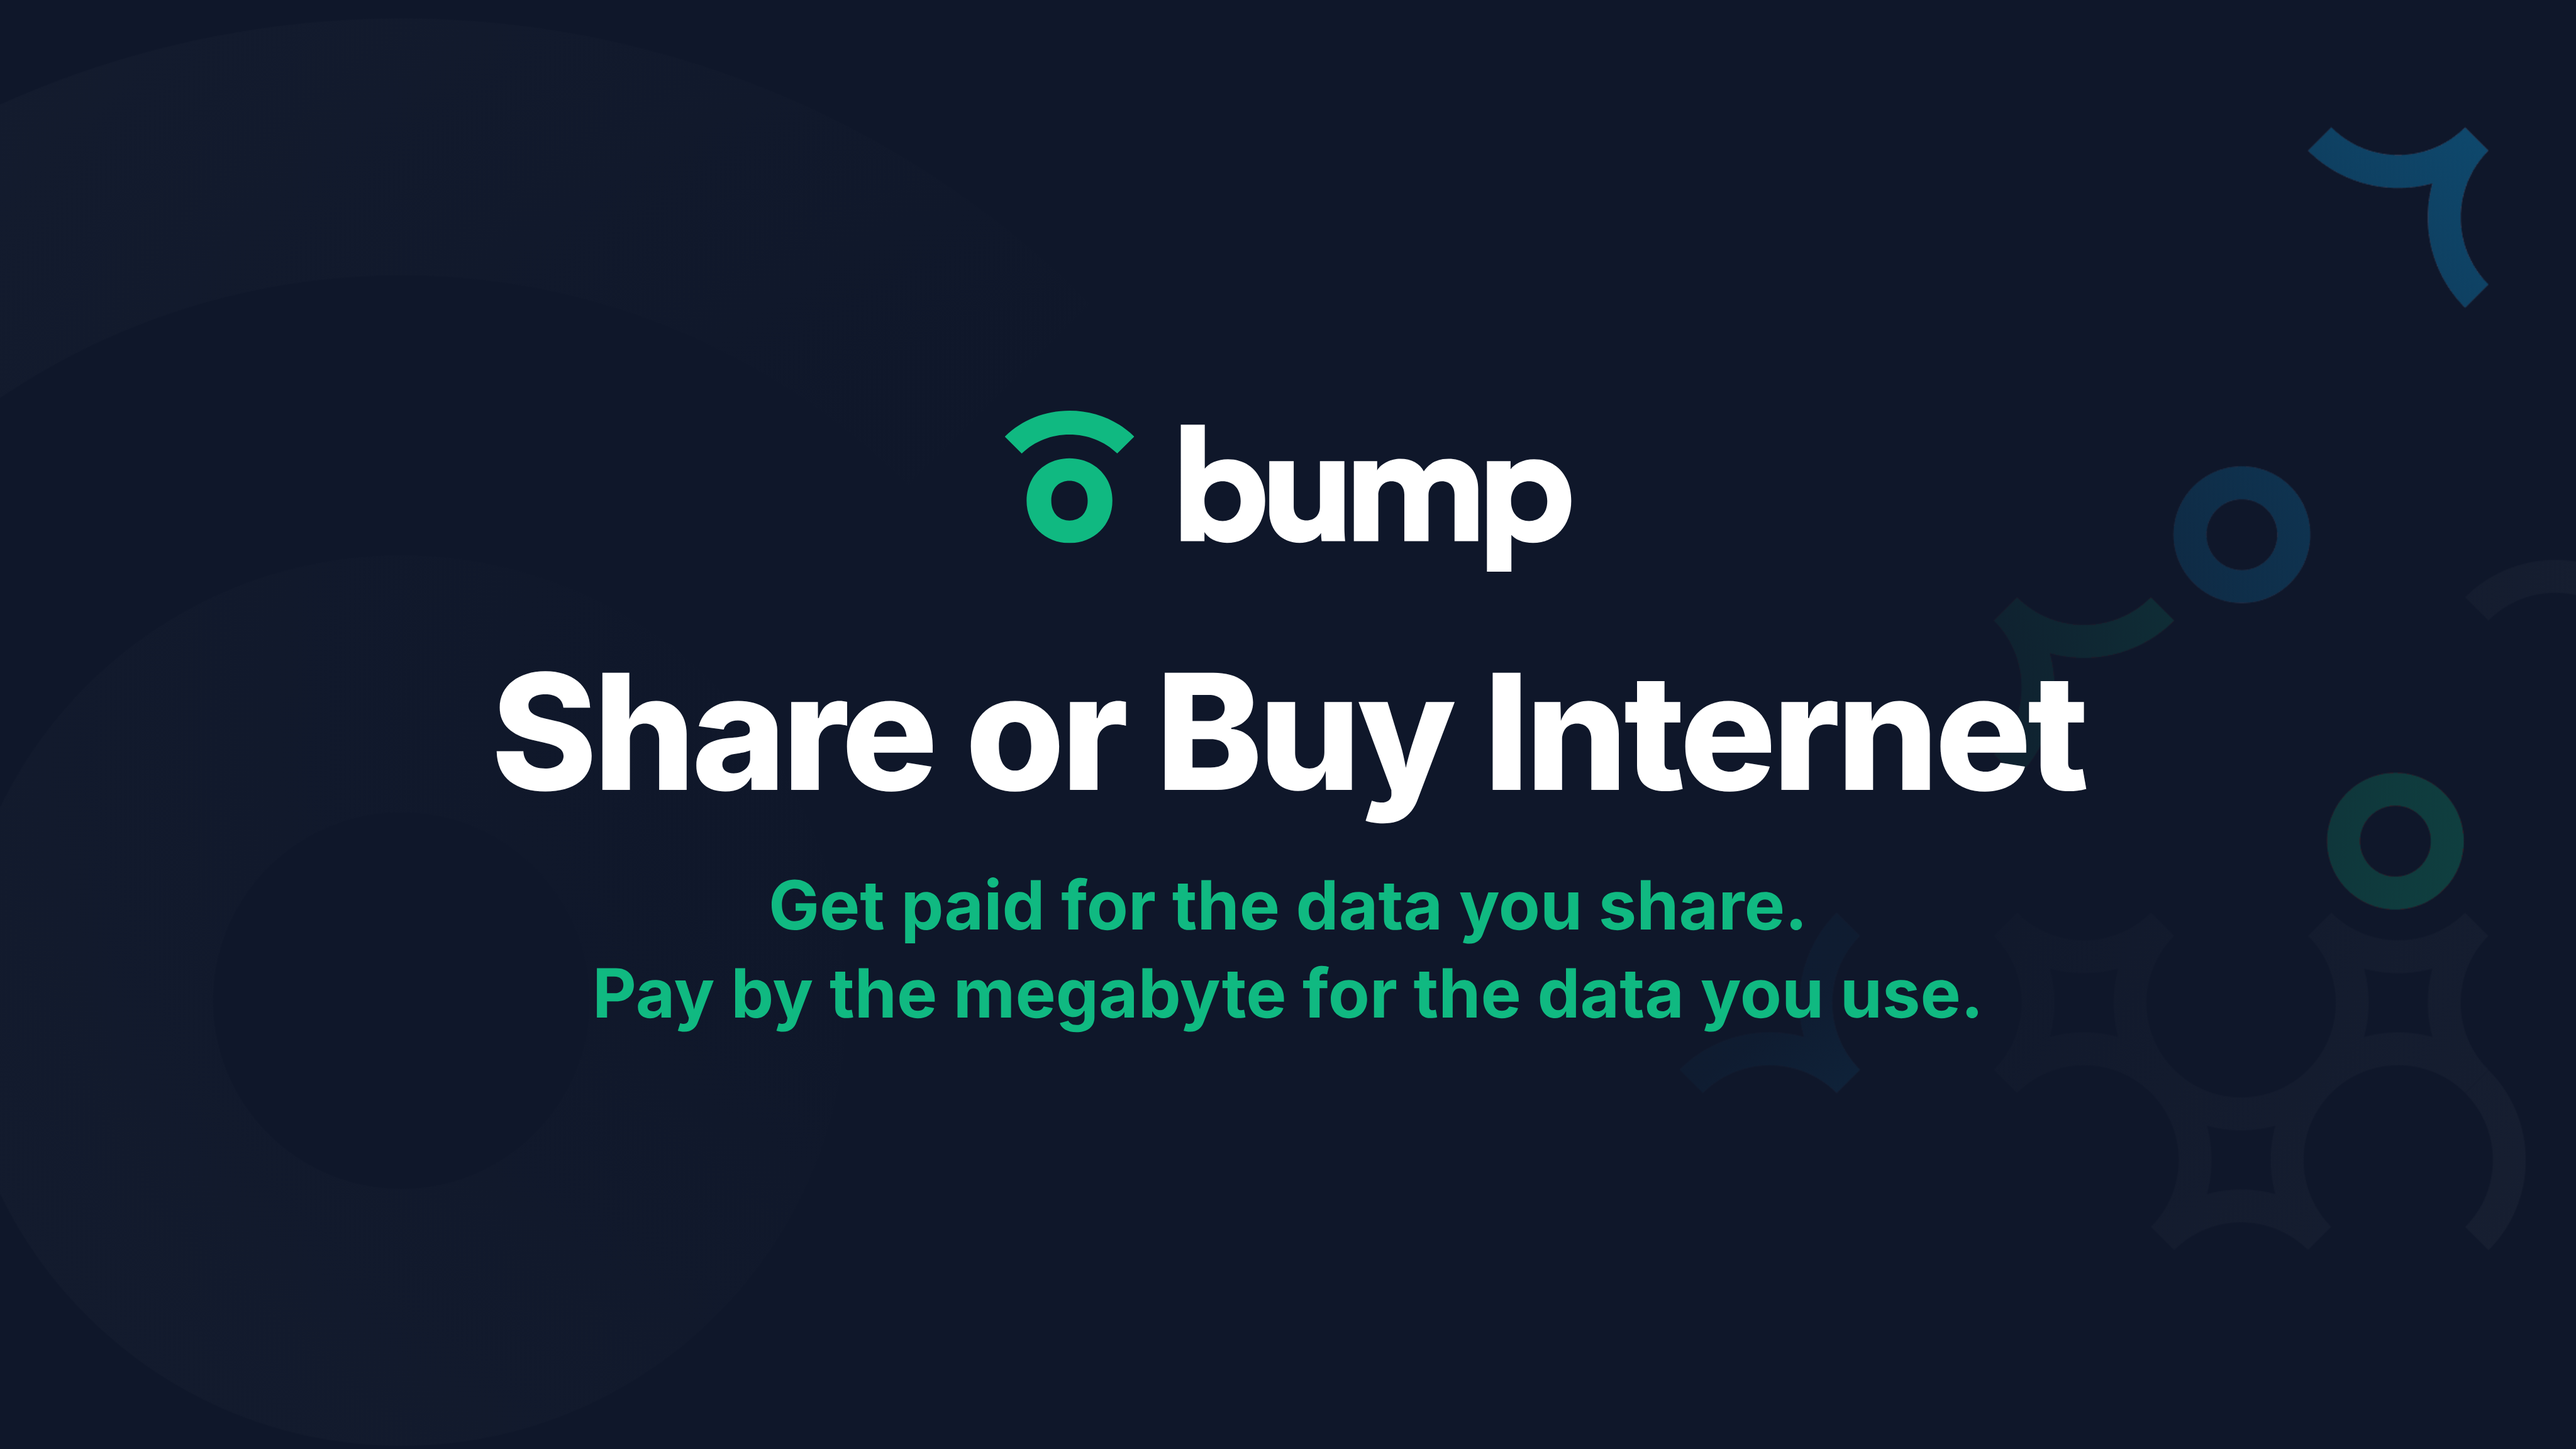
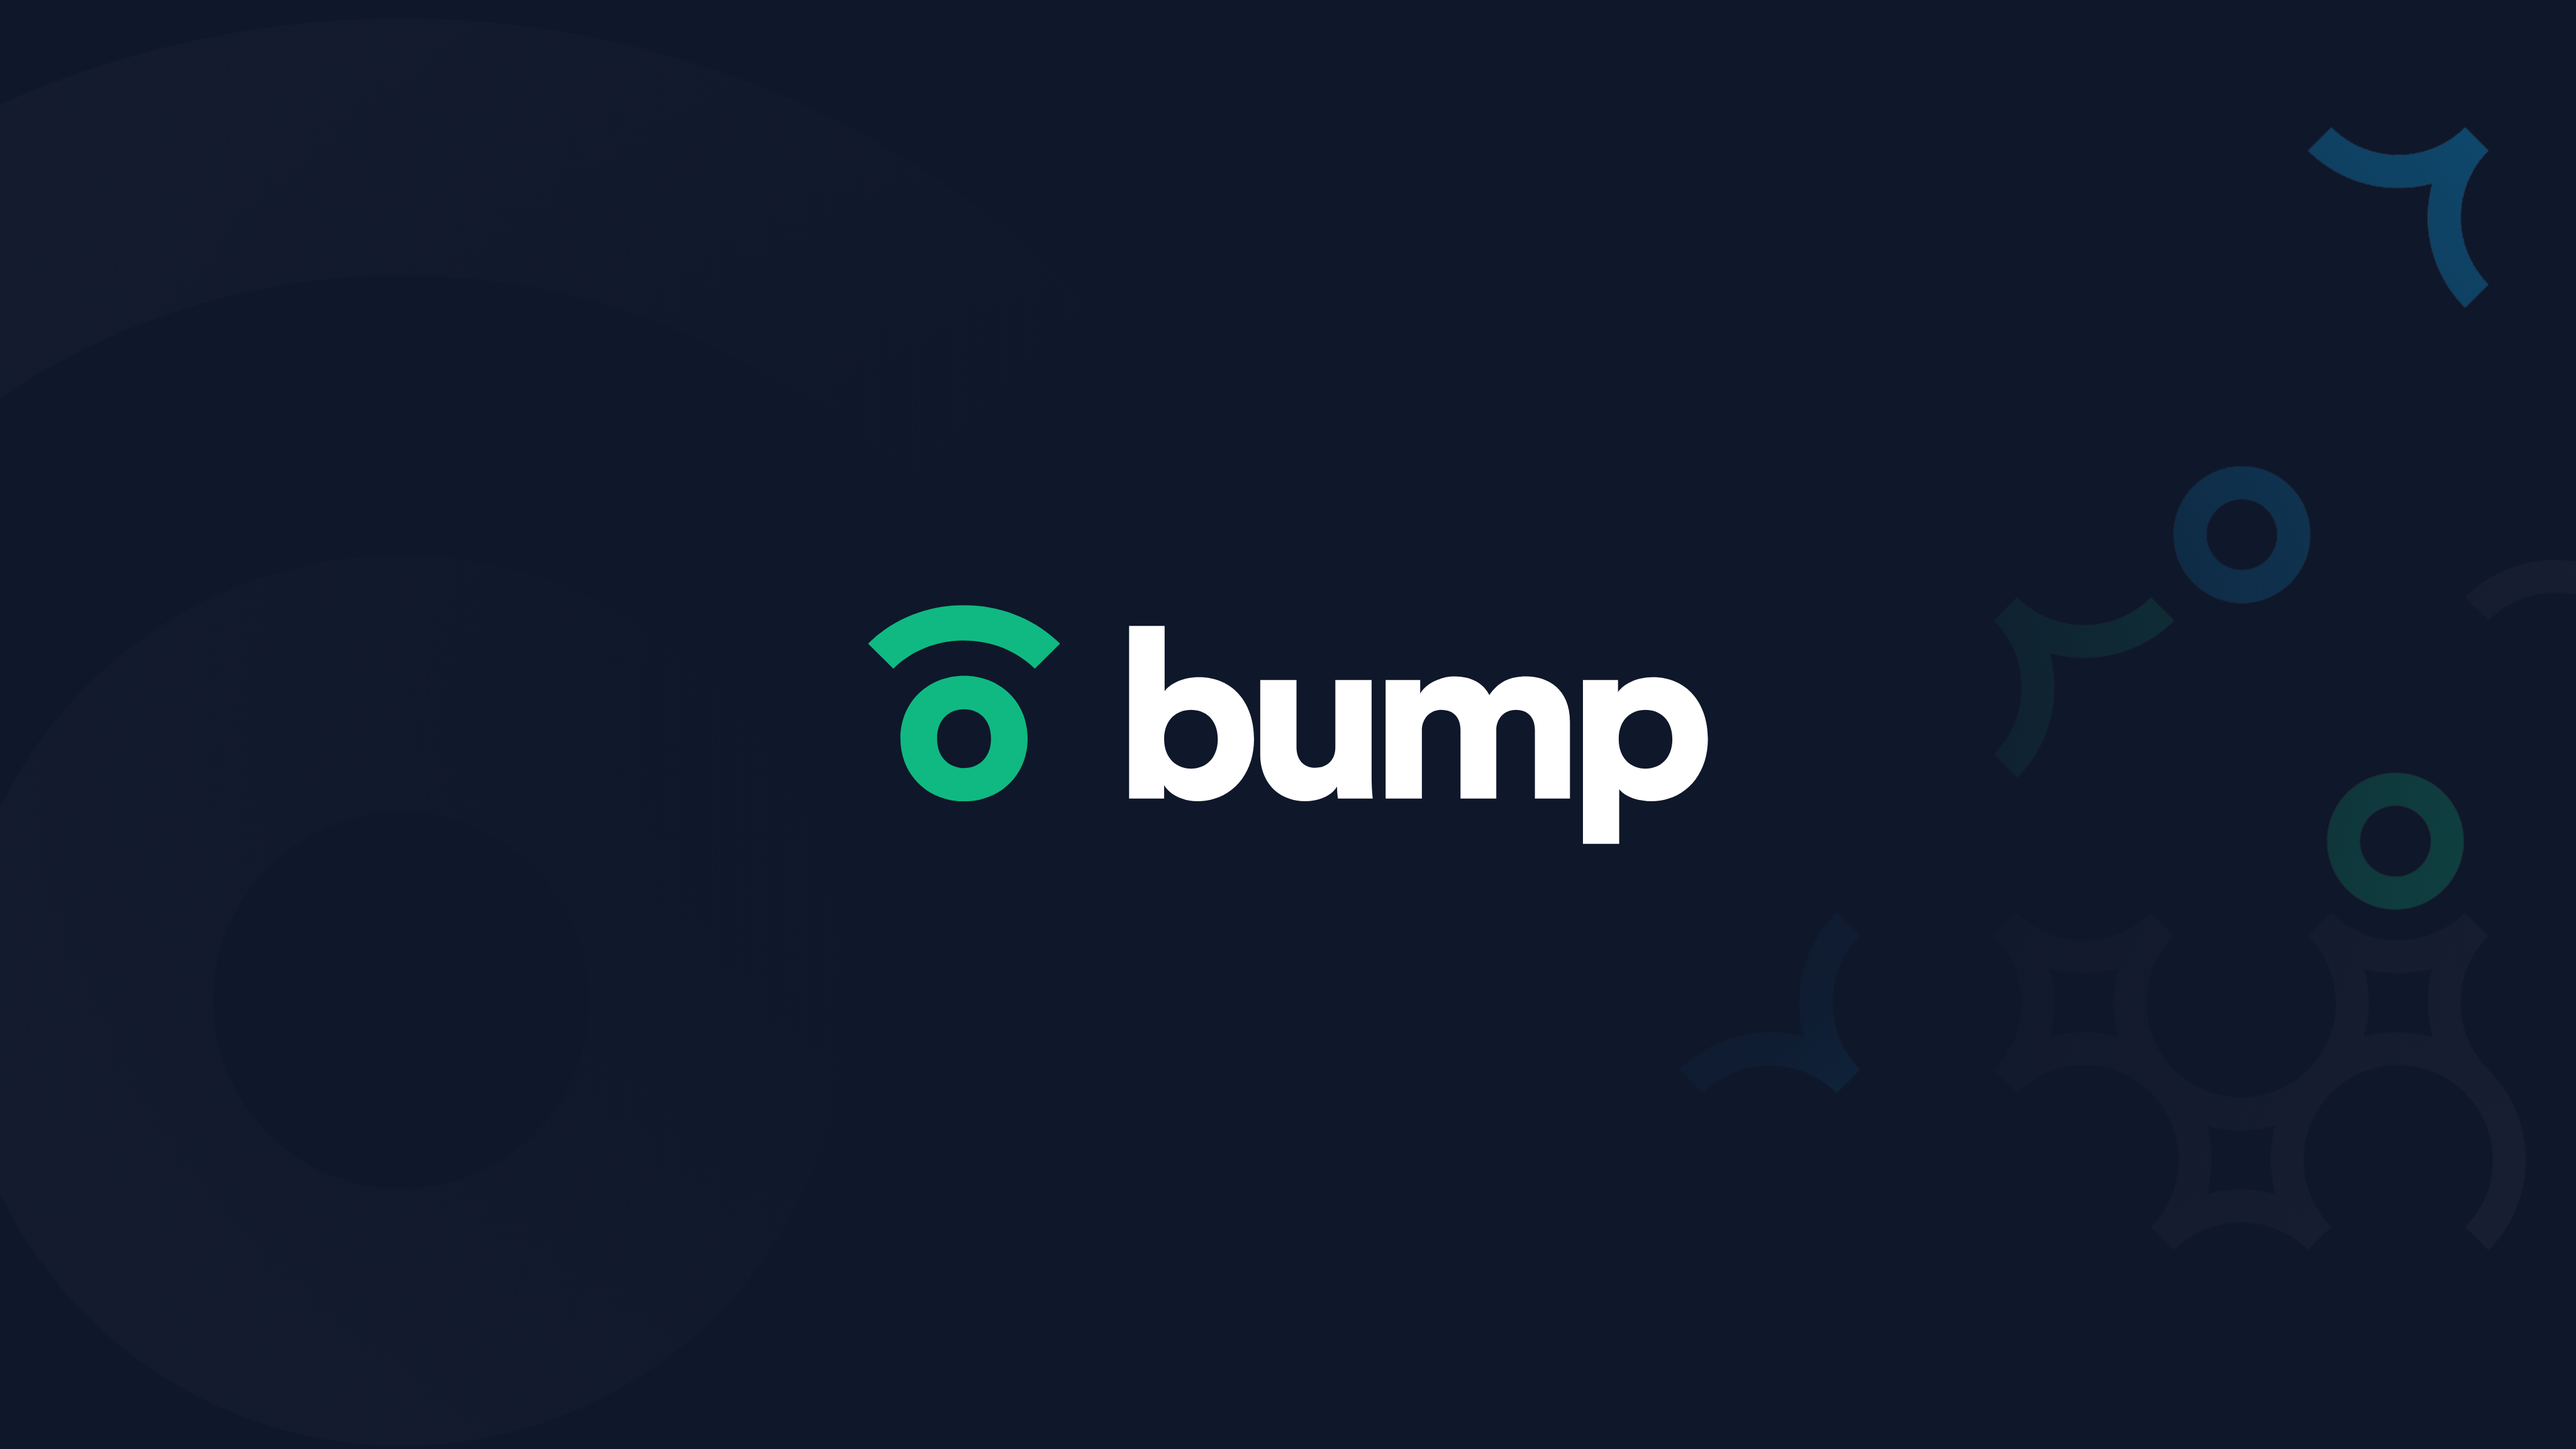
Play developer header: lockup only, Play crops the image to a wide strip

Changed region(s): [[0.1875, 0.4062, 0.8125, 0.7188], [0.375, 0.2812, 0.625, 0.4062]]

diff --git a/brand/play-dev-header.html b/brand/play-dev-header.html
@@ -1,5 +1,5 @@
 <!doctype html><html><head><meta charset="utf-8">
-<!-- Google Play developer page header, 4096x2304 (16:9). Render:
+<!-- Google Play developer page header, 4096x2304 (16:9). Play shows only the middle band, about 4:1 on desktop, so it carries just the logo lockup. Render:
      google-chrome --headless=new --hide-scrollbars --force-device-scale-factor=4 --window-size=1024,576 --screenshot=play-dev-header.png play-dev-header.html -->
 <style>*{margin:0;padding:0}html,body{overflow:hidden;width:1024px;height:576px;background:#0F172A;font-family:Inter,system-ui,sans-serif}
 .bg{position:absolute;inset:0;width:100%;height:100%;object-fit:cover;opacity:.9}
@@ -9,7 +9,7 @@ h1{margin-top:30px;color:#fff;font-size:64px;font-weight:800;letter-spacing:-.02
 p{margin-top:18px;color:#10B981;font-size:27px;font-weight:700;line-height:1.3;max-width:820px}
 </style></head><body>
 <img class="bg" src="../bg@2x.png"><div class="shade"></div>
-<div class="copy"><svg width="230" height="64" viewBox="0 0 86 24" fill="none" xmlns="http://www.w3.org/2000/svg">
+<div class="copy"><svg width="340" height="95" viewBox="0 0 86 24" fill="none" xmlns="http://www.w3.org/2000/svg">
 <path d="M30.5465 19.4444V18.1017C31.098 19.0128 32.3208 19.7081 33.9033 19.7081C37.236 19.7081 39.5857 17.0947 39.5857 13.4502C39.5857 9.87772 37.4997 7.2403 34.0471 7.2403C32.4167 7.2403 31.098 7.91164 30.5945 8.65492V2.08533H27.022V19.4444H30.5465ZM35.9413 13.4742C35.9413 15.4643 34.6705 16.4473 33.2559 16.4473C31.8413 16.4473 30.5465 15.4403 30.5465 13.4742C30.5465 11.4602 31.8413 10.5251 33.2559 10.5251C34.6705 10.5251 35.9413 11.4602 35.9413 13.4742Z" fill="white"/>
 <path d="M48.0255 19.4444H51.5261C51.5021 19.2526 51.4062 18.3894 51.4062 17.3105V7.52802H47.7617V14.3134C47.7617 15.5122 46.9945 16.3514 45.7717 16.3514C44.4769 16.3514 43.8535 15.4403 43.8535 14.2894V7.52802H40.2091V15.0567C40.2091 17.5982 41.8395 19.7081 44.7407 19.7081C45.9395 19.7081 47.3062 19.2766 47.9296 18.2456C47.9296 18.5573 47.9775 19.2286 48.0255 19.4444Z" fill="white"/>
 <path d="M56.4609 19.4444V12.5871C56.4609 11.5081 57.1563 10.5251 58.427 10.5251C59.7457 10.5251 60.3451 11.4122 60.3451 12.5391V19.4444H63.9416V12.5631C63.9416 11.5081 64.637 10.5251 65.9317 10.5251C67.2264 10.5251 67.8258 11.4122 67.8258 12.5391V19.4444H71.3504V11.7239C71.3504 8.48708 69.1925 7.16837 66.9387 7.16837C65.3323 7.16837 64.1814 7.69585 63.2463 9.03854C62.6469 7.86369 61.4241 7.16837 59.7218 7.16837C58.427 7.16837 56.8925 7.83971 56.2931 8.89468V7.52802H52.8165V19.4444H56.4609Z" fill="white"/>
@@ -17,7 +17,7 @@ p{margin-top:18px;color:#10B981;font-size:27px;font-weight:700;line-height:1.3;m
 <g clip-path="url(#c)"><path d="M16.8235 13.4086C16.8235 17.1006 14.0373 19.7369 10.4273 19.7369C6.81729 19.7369 4.03113 17.0997 4.03113 13.4086C4.03113 9.71746 6.84195 7.10388 10.4273 7.10388C14.0127 7.10388 16.8235 9.71662 16.8235 13.4086ZM13.1404 13.4086C13.1404 11.3948 11.8319 10.4602 10.4265 10.4602C9.02106 10.4602 7.71257 11.3948 7.71257 13.4086C7.71257 15.4224 9.04486 16.3814 10.4265 16.3814C11.8081 16.3814 13.1404 15.4224 13.1404 13.4086Z" fill="#10B981"/>
 <path d="M0.779907 3.8762L3.31866 6.388C3.33651 6.37033 3.35352 6.35098 3.37222 6.33332C5.224 4.5399 7.72959 3.5515 10.4265 3.5515C13.1234 3.5515 15.6443 4.54074 17.4935 6.33668C17.5088 6.35182 17.5232 6.36781 17.5394 6.38295L20.0781 3.87116C20.0543 3.84844 20.0322 3.82489 20.0084 3.80134C17.4841 1.35011 14.0807 0 10.4265 0C6.77224 0 3.38838 1.34759 0.860678 3.79545C0.833471 3.82237 0.807114 3.84928 0.779907 3.8762Z" fill="#10B981"/></g>
 <defs><clipPath id="c"><rect width="19.2982" height="19.7368" fill="white" transform="translate(0.779907)"/></clipPath></defs>
-</svg><h1 id="h"></h1><p id="p"></p></div>
+</svg></div>
 <script>
 var t = {
   en: ["Share or Buy Internet", "Get paid for the data you share. Pay by the megabyte for the data you use."],
@@ -25,6 +25,6 @@ var t = {
   es: ["Comparte o Compra Internet", "Gana por los datos que compartes. Paga por megabyte por los datos que usas."]
 }[new URLSearchParams(location.search).get("lang") || "en"];
 document.documentElement.lang = new URLSearchParams(location.search).get("lang") || "en";
-document.getElementById("h").textContent = t[0]; document.getElementById("p").innerHTML = t[1].replace(". ", ".<br>");
+
 </script>
 </body></html>

diff --git a/brand/README.md b/brand/README.md
@@ -8,6 +8,6 @@ Social profile images and banners. Each `.html` is the source; render it with he
 - `x-profile.*` – X avatar, green background.
 - `ig-brasil-*` – Instagram @bumpapp.brasil avatar candidates, dark background with edge ring.
 - `play-icon-512.png` – Google Play app icon, 512x512, as uploaded to the listing (Play applies the rounded mask). The source is the adaptive launcher icon in the app repo (`ic_launcher_foreground.xml` + `ic_launcher_background.xml`).
-- `play-dev-header.*` – Google Play developer page header, 4096x2304 (16:9). Same design as the feature graphic, English only; rendered at 4x device scale from a 1024x576 page.
+- `play-dev-header.*` – Google Play developer page header, 4096x2304 (16:9). Play shows only the middle band of it (about 4:1 on desktop), so it carries just the logo lockup on the pattern, no text. Rendered at 4x device scale from a 1024x576 page.
 - `play-feature.*` – Google Play feature graphic, 1024x500, one PNG per listing language (`-en`, `-pt`, `-es`). One HTML source; pass `?lang=pt` or `?lang=es` when rendering.
 - `*-preview.png` – how the asset looks in place on dark/light UI at real display sizes.
